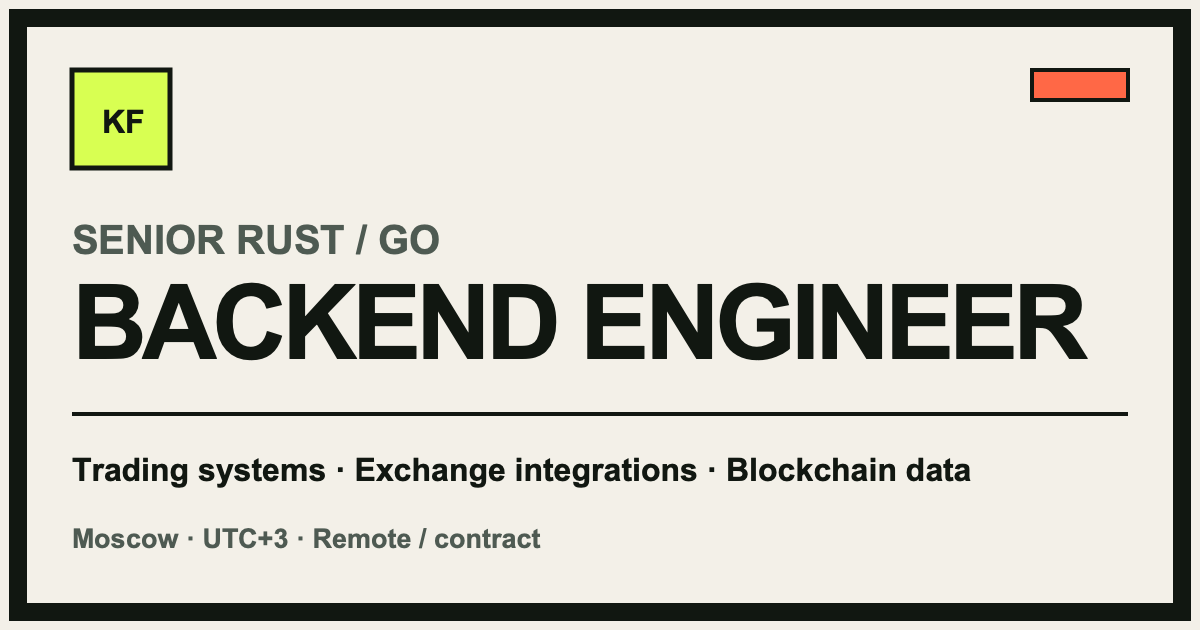
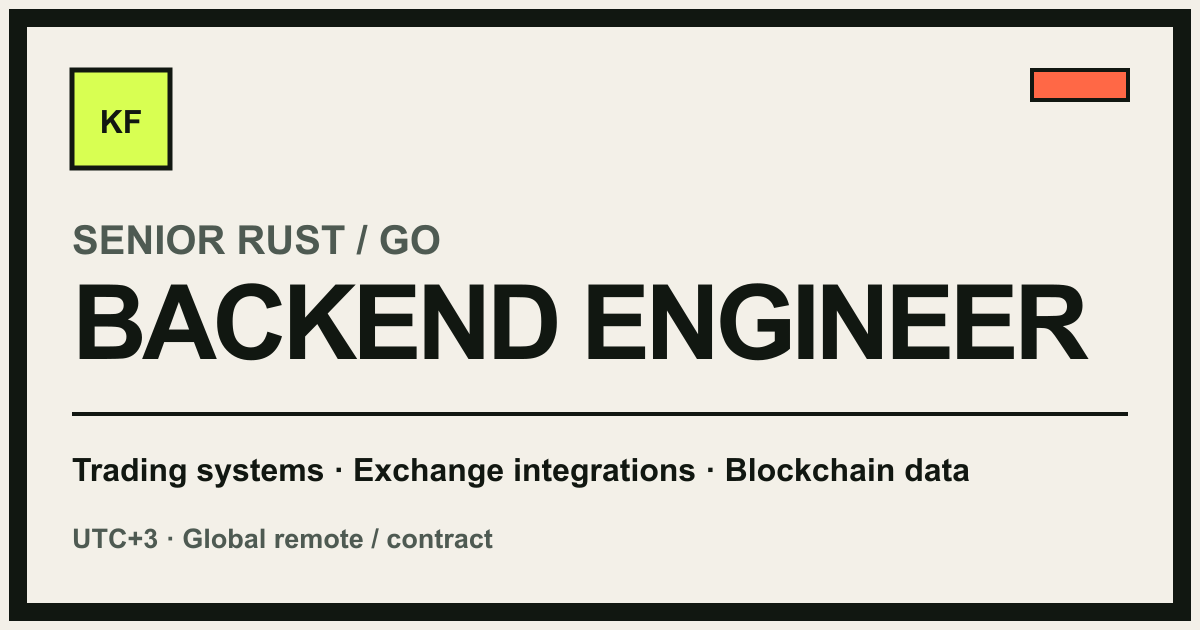
Refresh public proof surface

diff --git a/index.html b/index.html
@@ -6,7 +6,7 @@
     <title>Konstantin Fastov — Senior Rust/Go Backend Engineer</title>
     <meta
       name="description"
-      content="Senior Rust and Go backend engineer building trading systems, exchange integrations, and blockchain data infrastructure. Based in Moscow, UTC+3; open to remote roles and contract work."
+      content="Senior Rust and Go backend engineer building trading systems, exchange integrations, and blockchain data infrastructure. UTC+3; open to global remote roles and contract work."
     >
     <meta name="author" content="Konstantin Fastov">
     <meta name="robots" content="index, follow">
@@ -21,7 +21,7 @@
     <meta property="og:title" content="Konstantin Fastov — Senior Rust/Go Backend Engineer">
     <meta
       property="og:description"
-      content="Trading systems, exchange integrations, and blockchain data infrastructure. Moscow · UTC+3 · Remote and contract."
+      content="Trading systems, exchange integrations, and blockchain data infrastructure. UTC+3 · Global remote and contract."
     >
     <meta property="og:url" content="https://kfastov.github.io/">
     <meta property="og:image" content="https://kfastov.github.io/assets/og-card.png">
@@ -46,11 +46,7 @@
         "url": "https://kfastov.github.io/",
         "email": "mailto:[email redacted]",
         "jobTitle": "Senior Rust/Go Backend Engineer",
-        "address": {
-          "@type": "PostalAddress",
-          "addressLocality": "Moscow",
-          "addressCountry": "RU"
-        },
+        "description": "Senior Rust/Go backend engineer in UTC+3, open to global remote roles and contract work.",
         "sameAs": [
           "https://github.com/kfastov",
           "https://www.linkedin.com/in/kfastov",
@@ -98,7 +94,6 @@
             I build trading systems, exchange integrations, and blockchain data infrastructure—with an emphasis on explicit state, reliable recovery, and production operability.
           </p>
           <ul class="availability" aria-label="Location and availability">
-            <li>Moscow</li>
             <li>UTC+3</li>
             <li>Open to global remote roles</li>
             <li>Available for focused contract work</li>
@@ -213,11 +208,12 @@
                 <span class="relationship">Merged upstream</span>
                 <span aria-hidden="true">05</span>
               </div>
-              <h3><a href="https://github.com/foundry-rs/starknet-foundry/pull/2612">Starknet Foundry multicall inputs</a></h3>
+              <h3><a href="https://github.com/starknet-io/starknet.js/pull/1111">Starknet SDK and Foundry tooling</a></h3>
               <p class="card-summary">
-                Added typed numeric multicall inputs with parser changes, tests, documentation, changelog updates, and explicit input constraints.
+                Implemented merged SNIP-9 outside-execution support in starknet.js across account APIs, dual-version hashing, tests, and documentation; separately added typed numeric multicall inputs to Starknet Foundry with parser changes, tests, documentation, and explicit constraints.
               </p>
               <div class="card-links">
+                <a href="https://github.com/starknet-io/starknet.js/pull/1111">starknet.js PR #1111 <span aria-hidden="true">↗</span></a>
                 <a href="https://github.com/foundry-rs/starknet-foundry/pull/2612">Pull request #2612 <span aria-hidden="true">↗</span></a>
               </div>
             </article>
@@ -243,7 +239,7 @@
                 I designed, implemented, and operated a Rust funding-rate arbitrage system spanning exchange connectivity, streaming market data, state-machine-based order execution, position reconciliation, and deterministic backtesting.
               </p>
               <p>
-                Historical live execution ran on Binance USD-M and Hyperliquid from February to May 2026. It is currently paused while I rebuild the system from first principles as a strategy-agnostic engine with typed domain boundaries, capability-based connectors, and shared deterministic semantics for live and simulated execution.
+                Historical live execution covered 28 perpetual symbols on Binance USD-M and Hyperliquid from February to May 2026, including a sustained operating window of about two weeks. It is currently paused while I rebuild the system from first principles as a strategy-agnostic engine with typed domain boundaries, capability-based connectors, and shared deterministic semantics for live and simulated execution.
               </p>
               <div class="case-note">
                 <strong>Current status:</strong> the successor has foundational domain and connector work in place, but remains an early implementation—not a finished trading engine.
@@ -267,7 +263,7 @@
                 I worked on Ankr Advanced API, a blockchain-data platform spanning 13+ EVM networks and Solana. That number describes platform context; my contribution was concentrated in Go services for indexing, public APIs, RPC routing, and node access.
               </p>
               <p>
-                My work included JSON-RPC and gRPC boundaries, token and balance indexing, DEX-liquidity price routing, Geth/Erigon transaction tracing, node selection, request-path parallelization, and application deployment tooling.
+                My work included JSON-RPC and gRPC boundaries, token and balance indexing, DEX-liquidity price routing, internal-transaction indexing across heterogeneous EVM node APIs, capability-aware node selection, request-path parallelization, and application deployment tooling.
               </p>
               <div class="case-note">
                 <strong>Disclosure boundary:</strong> production repositories are not public. This summary contains no private code, schemas, endpoints, customer data, or internal screenshots.
@@ -304,7 +300,7 @@
             </article>
             <article>
               <h3>Data</h3>
-              <p>PostgreSQL, FoundationDB, ClickHouse, Redis, gRPC, Protocol Buffers, JSON-RPC, append-only pipelines.</p>
+              <p>PostgreSQL, FoundationDB, Redis, gRPC, Protocol Buffers, JSON-RPC, append-only pipelines.</p>
             </article>
             <article>
               <h3>Blockchain</h3>
@@ -336,7 +332,10 @@
                 <li>Minimal reproduction or deterministic test where feasible</li>
                 <li>Prioritized risks and a concrete patch plan</li>
               </ul>
-              <a class="engagement-link" href="mailto:[email redacted]?subject=Rust%20trading%20diagnostic">Discuss a diagnostic <span aria-hidden="true">&#8599;</span></a>
+              <div class="engagement-actions">
+                <a class="engagement-link" href="/assets/samples/rust-trading-execution-diagnostic-sample.pdf">View synthetic sample <span aria-hidden="true">&#8599;</span></a>
+                <a class="engagement-link" href="mailto:[email redacted]?subject=Rust%20trading%20diagnostic">Discuss a diagnostic <span aria-hidden="true">&#8599;</span></a>
+              </div>
             </article>
 
             <article class="engagement-card">
@@ -350,7 +349,9 @@
                 <li>Focused regression coverage</li>
                 <li>Replay, recovery, and operational handoff notes</li>
               </ul>
-              <a class="engagement-link" href="mailto:[email redacted]?subject=Rust%20or%20Go%20reliability%20sprint">Scope a sprint <span aria-hidden="true">&#8599;</span></a>
+              <div class="engagement-actions">
+                <a class="engagement-link" href="mailto:[email redacted]?subject=Rust%20or%20Go%20reliability%20sprint">Scope a sprint <span aria-hidden="true">&#8599;</span></a>
+              </div>
             </article>
           </div>
         </div>
@@ -359,12 +360,22 @@
       <section class="section section-resumes" id="resumes" aria-labelledby="resumes-title">
         <div class="shell">
           <div class="section-heading">
-            <p class="eyebrow"><span aria-hidden="true">06</span> Role-specific resumes</p>
+            <p class="eyebrow"><span aria-hidden="true">06</span> Master and role-specific resumes</p>
             <h2 id="resumes-title">Start with the closest version.</h2>
-            <p>Eight reviewed, two-page PDFs share one factual career history; only the role emphasis and ordering change.</p>
+            <p>Nine two-page PDFs draw from the same career history: one broad master resume and eight role-specific versions with different emphasis and ordering.</p>
           </div>
 
           <div class="resume-grid">
+            <article class="resume-card master-resume">
+              <p class="resume-track">Master / mixed backend</p>
+              <h3>Senior Backend Engineer</h3>
+              <p>For mixed Rust, Go, blockchain, trading, and infrastructure roles that need a broader view of the same career history.</p>
+              <div class="resume-actions">
+                <a href="/assets/resumes/konstantin-fastov-master.pdf">Open PDF</a>
+                <a href="/assets/resumes/konstantin-fastov-master.pdf" download>Download</a>
+              </div>
+            </article>
+
             <article class="resume-card primary-resume">
               <p class="resume-track">Primary</p>
               <h3>Rust &amp; Trading Systems</h3>
@@ -470,7 +481,7 @@
     <footer class="site-footer">
       <div class="shell footer-inner">
         <p>© 2026 Konstantin Fastov</p>
-        <p>Moscow · UTC+3 · Built as plain HTML and CSS</p>
+        <p>UTC+3 · Global remote / contract · Built as plain HTML and CSS</p>
       </div>
     </footer>
   </body>

diff --git a/styles.css b/styles.css
@@ -693,9 +693,15 @@ button:focus-visible {
   font-weight: 720;
 }
 
-.engagement-link {
+.engagement-actions {
+  display: flex;
+  flex-wrap: wrap;
+  gap: 12px 24px;
   margin-top: auto;
   padding-top: 34px;
+}
+
+.engagement-link {
   font-weight: 830;
 }
 
@@ -718,6 +724,11 @@ button:focus-visible {
   border-right: 2px solid var(--ink);
   border-bottom: 2px solid var(--ink);
   background: var(--paper);
+}
+
+.master-resume {
+  grid-column: 1 / -1;
+  min-height: 240px;
 }
 
 .primary-resume {

diff --git a/README.md b/README.md
@@ -15,7 +15,8 @@ Then open `http://localhost:8000`.
 - `index.html` — semantic single-page portfolio
 - `styles.css` — responsive layout and visual system
 - `404.html` — GitHub Pages fallback
-- `assets/resumes/` — reviewed role-specific PDF resumes
+- `assets/resumes/` — approved master and role-specific PDF resumes
+- `assets/samples/` — public-safe sample deliverables for focused contract work
 - `assets/favicon.svg`, `assets/og-card.svg`, and `assets/og-card.png` — local identity and social-preview assets
 - `robots.txt`, `sitemap.xml`, `site.webmanifest` — discovery metadata
 